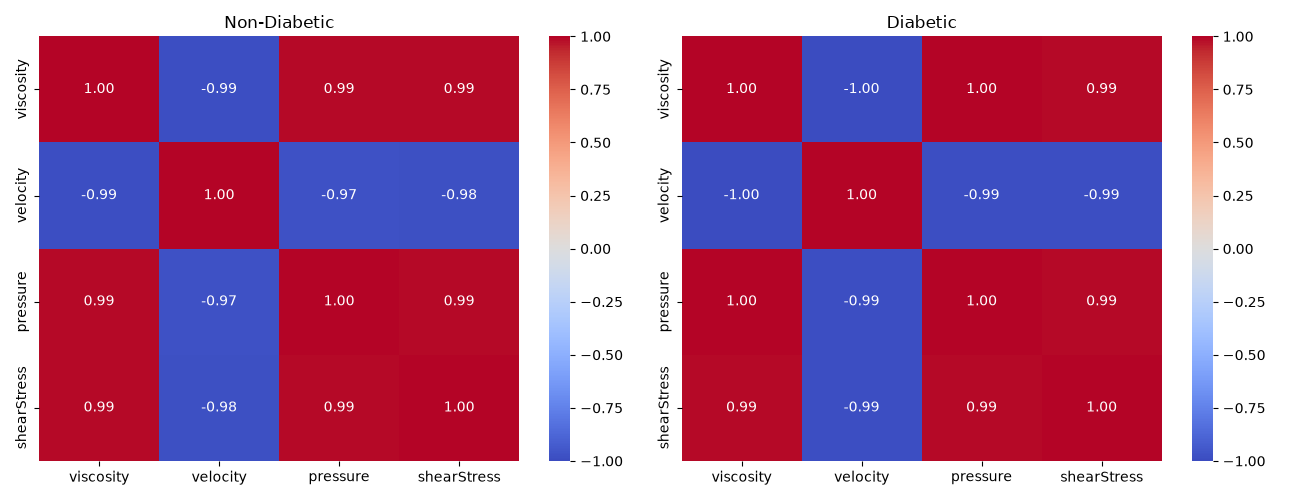
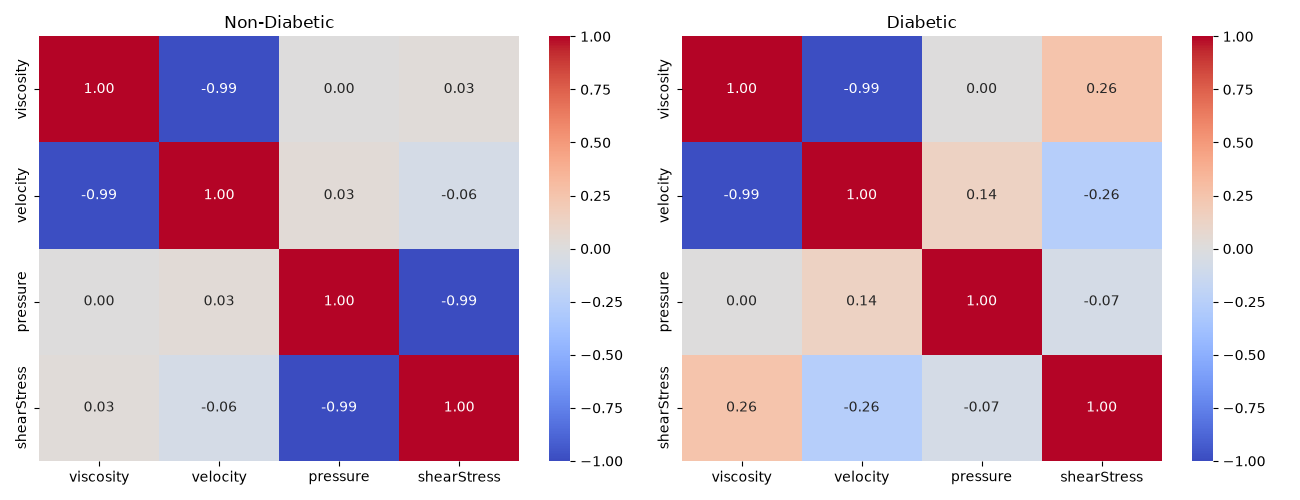
final edits
add this stuff to the appendix

diff --git a/regressionrunner.py b/regressionrunner.py
@@ -4,47 +4,15 @@ import matplotlib.pyplot as plt
 import seaborn as sns
 from statsmodels.formula.api import ols
 
-# ---------------------------------------------------------------------------
-# FAKE DATA (delete this whole block once you have a real CSV)
-# ---------------------------------------------------------------------------
-np.random.seed(42)
-
 networks = ['1', '2']
-diabetic_statuses = [0, 1]                 # 0 = non-diabetic, 1 = diabetic
-viscosities = np.linspace(3.0, 5.0, 6)     # 6 viscosity steps, edit to match your sweep
+diabetic_statuses = [0, 1]
 
-rows = []
-for net in networks:
-    for diabetic in diabetic_statuses:
-        for visc in viscosities:
-            # base relationships loosely mimicking fluid dynamics behavior:
-            # velocity decreases as viscosity increases, faster if diabetic
-            # pressure increases as viscosity increases, faster if diabetic
-            # shear stress increases as viscosity increases, faster if diabetic
-            diabetic_penalty = 1.4 if diabetic else 1.0
-            network_shift = 1.15 if net == 'B' else 1.0
+file_name = "ptresults.csv"
 
-            velocity = (0.6 - 0.06 * visc * diabetic_penalty) * network_shift
-            pressure = (60 + 8 * visc * diabetic_penalty) * network_shift
-            shearStress = (0.5 + 0.25 * visc * diabetic_penalty) * network_shift
+#put csv into dataframe (df)
+df = pd.read_csv(file_name)
 
-            # small noise so the regression has something to fit, not exact lines
-            velocity += np.random.normal(0, 0.01)
-            pressure += np.random.normal(0, 1.0)
-            shearStress += np.random.normal(0, 0.03)
-
-            rows.append({
-                'network': net,
-                'diabetic': diabetic,
-                'viscosity': visc,
-                'velocity': velocity,
-                'pressure': pressure,
-                'shearStress': shearStress,
-            })
-
-df = pd.DataFrame(rows)
-
-# END FAKE DATA
+print(df.head())
 
 
 #pandas file readings
@@ -64,11 +32,13 @@ if len(networks) == 1: #line recommended to add
 
 for i, net in enumerate(networks): #enumerate() gives position number and network value
     sub_net = df[df['network'] == net] #filters dataframe to match network
+    sub_net = sub_net.copy() #recommended to reduce errors
+    sub_net['diabetic'] = sub_net['diabetic'].map({0: 'Non-Diabetic', 1: 'Diabetic'})
     for j, dv in enumerate(dvs): #loop to give column position and actual name of dependent variables
-        sns.lineplot(data=sub_net, x='viscosity', y=dv, hue='diabetic',
-                     marker='o', ax=axes[i, j], palette={0: 'tab:blue', 1: 'tab:red'}) #draws line chart for variables
+        sns.lineplot(data=sub_net, x='viscosity', y=dv, hue='diabetic', #palette keys
+                     marker='o', ax=axes[i, j], palette={'Non-Diabetic': 'tab:blue', 'Diabetic': 'tab:red'}) #draws line chart for variables
         axes[i, j].set_title(f'Network {net}: {dv}') #labels chart panel
-        axes[i, j].legend(title='Diabetic', labels=['Non-Diabetic', 'Diabetic']) #adds legend box for blue + red definitions
+        axes[i, j].legend(title='Diabetic Retinopathy') #adds legend box for blue + red definitions
 
 plt.tight_layout() #adjusts spacing
 plt.savefig("dose_response_curves.png", dpi=300) #saves whole chart grid as an image
@@ -88,7 +58,7 @@ for net in networks: #loop through each network
         print(model.summary())  #prints a small header with statistical results
 
 
-# summary table, tells us interaction coefficient (good for correlations), and p-value for significance
+#summary table for significance/visuals
 
 summary_rows = [] #empty list to hold 1 dictionary/network
 for net in networks: #loops through every network/output variable

diff --git a/heatmap.py b/heatmap.py
@@ -4,58 +4,13 @@ import pandas as pd             # holds our data in a table (like an Excel sheet
 import matplotlib.pyplot as plt # draws the actual charts
 import seaborn as sns           # makes matplotlib charts easier to build/prettier
 
-# -----------------------------------------------------------------------
-# STEP 1: BUILD FAKE DATA
-# (Delete this whole block later and replace with:
-#   df = pd.read_csv("your_real_file.csv")
-#  once real COMSOL results exist. Your CSV just needs columns named
-#  exactly: network, diabetic, viscosity, velocity, pressure, shear_stress)
-# -----------------------------------------------------------------------
+file_name = "maxresults.csv"
 
-np.random.seed(42)  # locks the "randomness" so you get the same fake numbers every run
+#put csv into dataframe (df)
+df = pd.read_csv(file_name)
 
-networks = ['1', '2']            # your two vessel network geometries
-diabetic_statuses = [0, 1]       # 0 = non-diabetic, 1 = diabetic
-viscosities = np.linspace(3.0, 5.0, 6)  # 6 evenly-spaced viscosity values from 3.0 to 5.0
-
-rows = []  # empty list -- we'll fill it with one dictionary per simulated row
-
-for net in networks:                      # loop over network A, then network B
-    for diabetic in diabetic_statuses:     # loop over non-diabetic (0), then diabetic (1)
-        for visc in viscosities:           # loop over each of the 6 viscosity values
-
-            # these two lines just make diabetic/network B react more strongly
-            # to viscosity -- purely to make the FAKE data look realistic
-            diabetic_penalty = 1.4 if diabetic else 1.0
-            network_shift = 1.15 if net == 'B' else 1.0
-
-            # fake formulas: each output responds to viscosity in a
-            # direction that mimics real fluid dynamics (you will replace
-            # these three lines entirely once real data exists)
-            velocity = (0.6 - 0.06 * visc * diabetic_penalty) * network_shift
-            pressure = (60 + 8 * visc * diabetic_penalty) * network_shift
-            shearStress = (0.5 + 0.25 * visc * diabetic_penalty) * network_shift
-
-            # add a little random "noise" so the numbers aren't perfectly
-            # smooth lines -- mimics real-world measurement variation
-            velocity += np.random.normal(0, 0.01)
-            pressure += np.random.normal(0, 1.0)
-            shearStress += np.random.normal(0, 0.03)
-
-            # save this one row of fake data as a dictionary, add it to our list
-            rows.append({
-                'network': net,
-                'diabetic': diabetic,
-                'viscosity': visc,
-                'velocity': velocity,
-                'pressure': pressure,
-                'shearStress': shearStress,
-            })
-
-df = pd.DataFrame(rows)  #convert the list of dictionaries into a proper data table
-
-print(df.head())  #sanity check -- print the first 5 rows
-
+#view first 5 rows
+print(df.head())
 #creates the heatmap
 
 corr_vars = ['viscosity', 'velocity', 'pressure', 'shearStress']  #columns to compare

diff --git a/mancova.py b/mancova.py
@@ -1,0 +1,62 @@
+import numpy as np              # used to build the fake numbers below
+import pandas as pd             # holds our data in a table (like an Excel sheet)
+from statsmodels.multivariate.manova import MANOVA  # runs the MANOVA math
+
+
+networks = ['1', '2']
+diabetic_statuses = [0, 1]
+
+file_name = "ptresults.csv"
+
+#put csv into dataframe (df)
+df = pd.read_csv(file_name)
+networks = sorted(df['network'].unique()) #taking the networks, sorted
+
+#view first 5 rows
+print(df.head())
+
+results = {}  #stores results
+
+for net in networks:                              #loop through network 1, then network 2
+    sub = df[df['network'] == net]                 #keep only network's rows
+
+    print(f"NETWORK {net}: Healthy vs Diabetic, across viscosity")
+
+    mancova_model = MANOVA.from_formula(
+        'pressure + shearStress ~ viscosity * C(diabetic)',
+        data=sub,
+    )
+    mancova_results = mancova_model.mv_test()      #runs test
+    results[net] = mancova_results                  #saves for later
+
+    print(mancova_results)
+
+# -----------------------------------------------------------------------
+# HOW TO READ THIS (printed once per network, so you'll see this pattern twice):
+#
+#   viscosity                  -> does viscosity alone shift the combined
+#                                 profile, regardless of diabetic status?
+#                                 (expected to be significant -- that's the
+#                                 basic dose-response relationship)
+#
+#   C(diabetic)                 -> *** direct healthy vs diabetic comparison ***
+#                                 does diabetic status shift the combined
+#                                 profile, averaged across viscosity levels?
+#
+#   viscosity:C(diabetic)       -> *** the more precise healthy vs diabetic
+#                                 comparison *** -- does the effect of
+#                                 viscosity on the combined profile change
+#                                 depending on diabetic status? This is the
+#                                 multivariate version of what your
+#                                 regression's viscosity:C(diabetic) term
+#                                 already tests one output at a time.
+#
+# For each row, look at "Pillai's trace" or "Wilks' lambda" and its
+# associated Pr > F (the p-value). p < 0.05 is usually read as
+# "statistically significant."
+#
+# Compare the two networks' results side by side: if the
+# viscosity:C(diabetic) row is significant in BOTH networks with a similar
+# pattern, that's strong evidence the diabetic effect is real and
+# consistent. If it's significant in only one, that's worth investigating.
+# -----------------------------------------------------------------------
